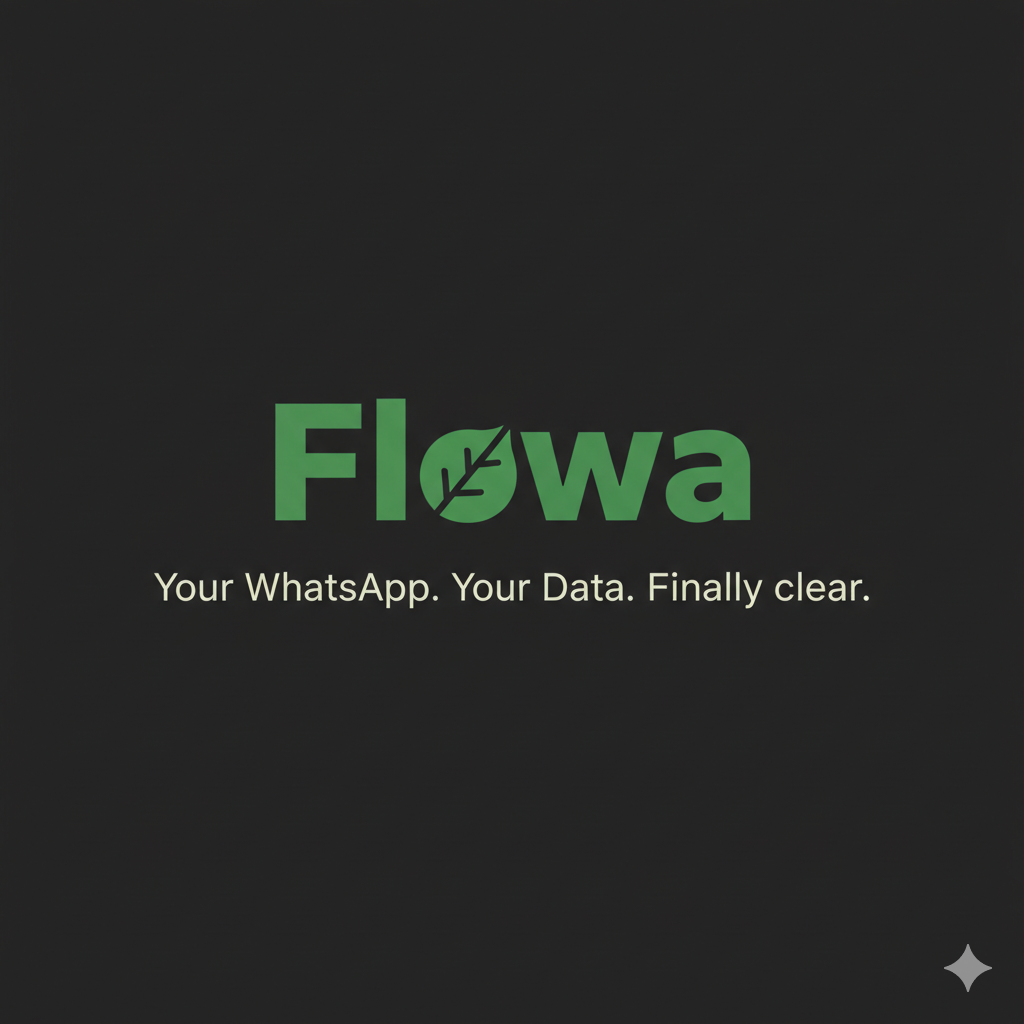
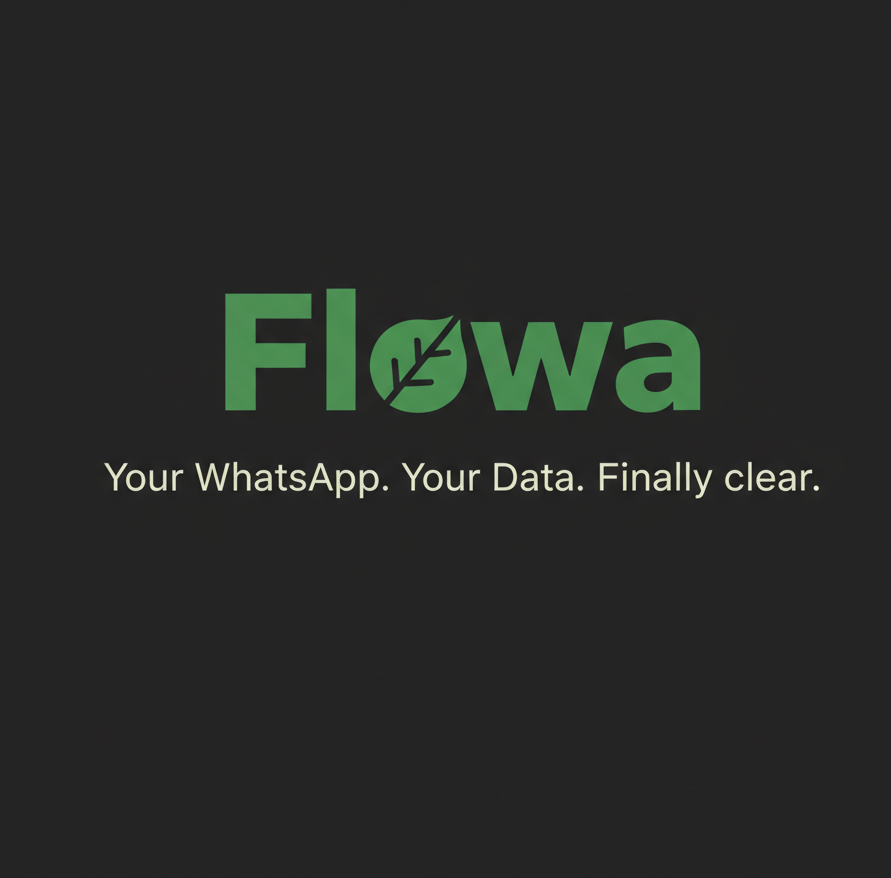
seo image edit and robots file sitemap file and 3 weeks date format

Changed region(s): [[0.1212, 0.3075, 0.9091, 0.615], [0.9091, 0.9226, 0.9697, 0.9841]]

diff --git a/src/components/footer.jsx b/src/components/footer.jsx
@@ -5,7 +5,6 @@ import { ScrollTrigger } from "gsap/ScrollTrigger";
 
 const ComingSoon = () => {
   const [timeLeft, setTimeLeft] = useState({});
-  // Set initial loading state to FALSE since the component is ready
   const [loading, setLoading] = useState(false);
   const [formdata, setFormdata] = useState({
     name: "",
@@ -16,8 +15,8 @@ const ComingSoon = () => {
 
   const textElement = useRef(null);
   const enterbutton = useRef(null);
-  const launchDate = new Date(2025, 10, 30).getTime();
 
+  // Handle input changes
   const handleInputChange = (e) => {
     setFormdata({
       ...formdata,
@@ -27,7 +26,8 @@ const ComingSoon = () => {
 
   useEffect(() => {
     gsap.registerPlugin(ScrollTrigger);
-    // ... GSAP and Countdown logic remains the same ...
+
+    // === TEXT ANIMATION ===
     const textelement = textElement.current;
     if (textelement) {
       const textarray = textelement.textContent.split("");
@@ -54,6 +54,7 @@ const ComingSoon = () => {
       );
     }
 
+    // === BUTTON ANIMATION ===
     const submitButton = enterbutton.current;
     if (submitButton) {
       gsap.fromTo(
@@ -73,9 +74,13 @@ const ComingSoon = () => {
       );
     }
 
+    // === COUNTDOWN LOGIC (3 weeks from today) ===
+    const launchDate = new Date();
+    launchDate.setDate(launchDate.getDate() + 21); // 21 days = 3 weeks
+
     const timer = setInterval(() => {
       const now = new Date().getTime();
-      const distance = launchDate - now;
+      const distance = launchDate.getTime() - now;
 
       if (distance <= 0) {
         clearInterval(timer);
@@ -94,8 +99,9 @@ const ComingSoon = () => {
     }, 1000);
 
     return () => clearInterval(timer);
-  }, [launchDate]);
+  }, []);
 
+  // === HANDLE WAITLIST SUBMISSION ===
   const handleSubmit = async (e) => {
     e.preventDefault();
     setError(null);
@@ -105,14 +111,12 @@ const ComingSoon = () => {
       return;
     }
 
-    // FIX 1: Set loading state to TRUE before the async operation
     setLoading(true);
 
     const { error: supabaseError } = await supabase
       .from("waitlist")
       .insert([{ name: formdata.name, email: formdata.email }]);
 
-    // FIX 2: Set loading state to FALSE in ALL exit paths
     setLoading(false);
 
     if (supabaseError) {
@@ -125,9 +129,9 @@ const ComingSoon = () => {
     }
   };
 
+  // === RENDER ===
   return (
     <section className="flex flex-col items-center justify-center min-h-screen bg-[#1b211c] text-accent text-center px-4">
-      {/* ... H1 and P tags remain the same ... */}
       <h1
         className="text-4xl md:text-5xl font-medium mb-4 font-goodly"
         ref={textElement}
@@ -155,7 +159,7 @@ const ComingSoon = () => {
         </div>
       )}
 
-      {/* Error Message Display */}
+      {/* Error Message */}
       {error && <p className="text-red-500 mb-4 font-medium">{error}</p>}
 
       {/* Waitlist Form */}
@@ -170,9 +174,9 @@ const ComingSoon = () => {
             required
             value={formdata.name}
             onChange={handleInputChange}
-            placeholder="Pls enter your name"
+            placeholder="Please enter your name"
             className="px-4 py-2 rounded-md w-72 sm:w-80 outline-none bg-[#2b352d] text-[#e3f2da] focus:ring-2 focus:ring-green-500"
-            disabled={loading} // IMPROVEMENT: Disable inputs while loading
+            disabled={loading}
           />
           <input
             type="email"
@@ -182,17 +186,15 @@ const ComingSoon = () => {
             onChange={handleInputChange}
             placeholder="Enter your email"
             className="px-4 py-2 rounded-md w-72 sm:w-80 outline-none bg-[#2b352d] text-[#e3f2da] focus:ring-2 focus:ring-green-500"
-            disabled={loading} // IMPROVEMENT: Disable inputs while loading
+            disabled={loading}
           />
           <button
             type="submit"
             ref={enterbutton}
-            className="px-6 py-2 bg-green-600 hover:bg-green-700 text-white font-semibold rounded-full transition-all disabled:opacity-50" // IMPROVEMENT: Styling for disabled button
-            disabled={loading} // IMPROVEMENT: Disable button while loading
-            // REMOVED: The flawed onClick handler
+            className="px-6 py-2 bg-green-600 hover:bg-green-700 text-white font-semibold rounded-full transition-all disabled:opacity-50"
+            disabled={loading}
           >
             {loading ? "Submitting..." : "Join Waitlist"}
-            {/* IMPROVEMENT: Dynamically set button text using ternary operator */}
           </button>
         </form>
       ) : (

diff --git a/index.html b/index.html
@@ -4,7 +4,10 @@
     <!-- Charset & Viewport -->
     <meta charset="UTF-8" />
     <meta name="viewport" content="width=device-width, initial-scale=1.0" />
-
+    <meta
+      name="google-site-verification"
+      content="BVT_Hy1_oG-Z2Iu1frZQLILg1TcCYov9rBsFqyJLT5Q"
+    />
     <!-- Title & Basic SEO -->
     <title>Flowa — Business made simple</title>
     <meta
